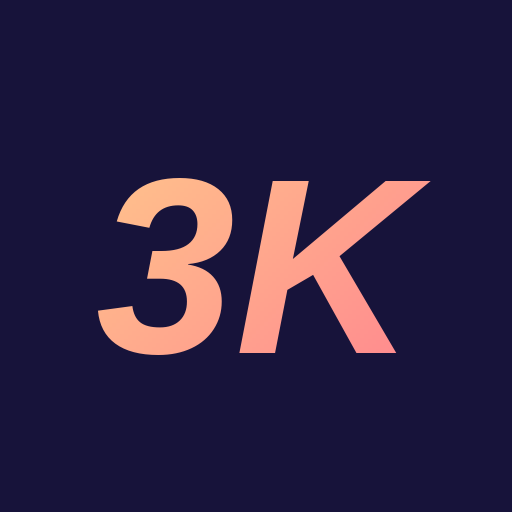
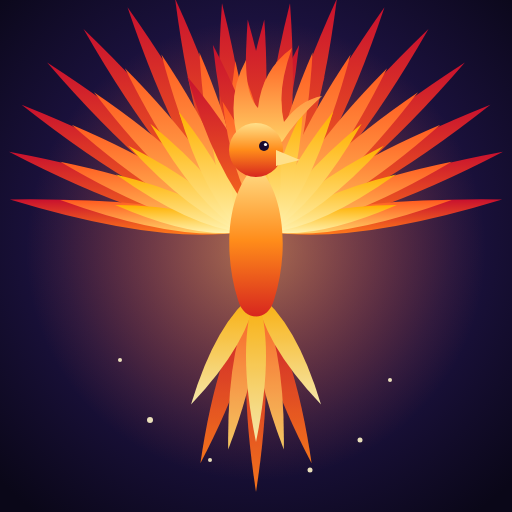
App-Symbol: Phönix statt 3K
Claude-Session: https://claude.ai/code/session_01Y2iPkDRKuCRtyswyqhWXB2

diff --git a/index.html b/index.html
@@ -4935,7 +4935,7 @@ function founderWatch(){
 }
 if("serviceWorker" in navigator)navigator.serviceWorker.register("sw.js",{scope:"./"}).catch(()=>{});
 function DK_SWITCH(id,n){try{localStorage.setItem("dk_id",id);if(n)localStorage.setItem("dk_name",n);}catch(e){}location.reload();}
-const BUILD_ID="1791881996";
+const BUILD_ID="1792006942";
 function verCheck(){fetch("version.json?t="+Date.now(),{cache:"no-store"}).then(r=>r.json()).then(j=>{if(j&&j.v&&j.v!==BUILD_ID&&!document.getElementById("upd")){const b=document.createElement("button");b.id="upd";b.textContent="✨ Neue Version da. Tippen zum Laden";b.onclick=()=>location.reload();document.body.appendChild(b);}}).catch(()=>{});}
 setInterval(verCheck,60000);document.addEventListener("visibilitychange",()=>{if(document.visibilityState==="visible")verCheck();});setTimeout(verCheck,5000);
 (async function boot(){
